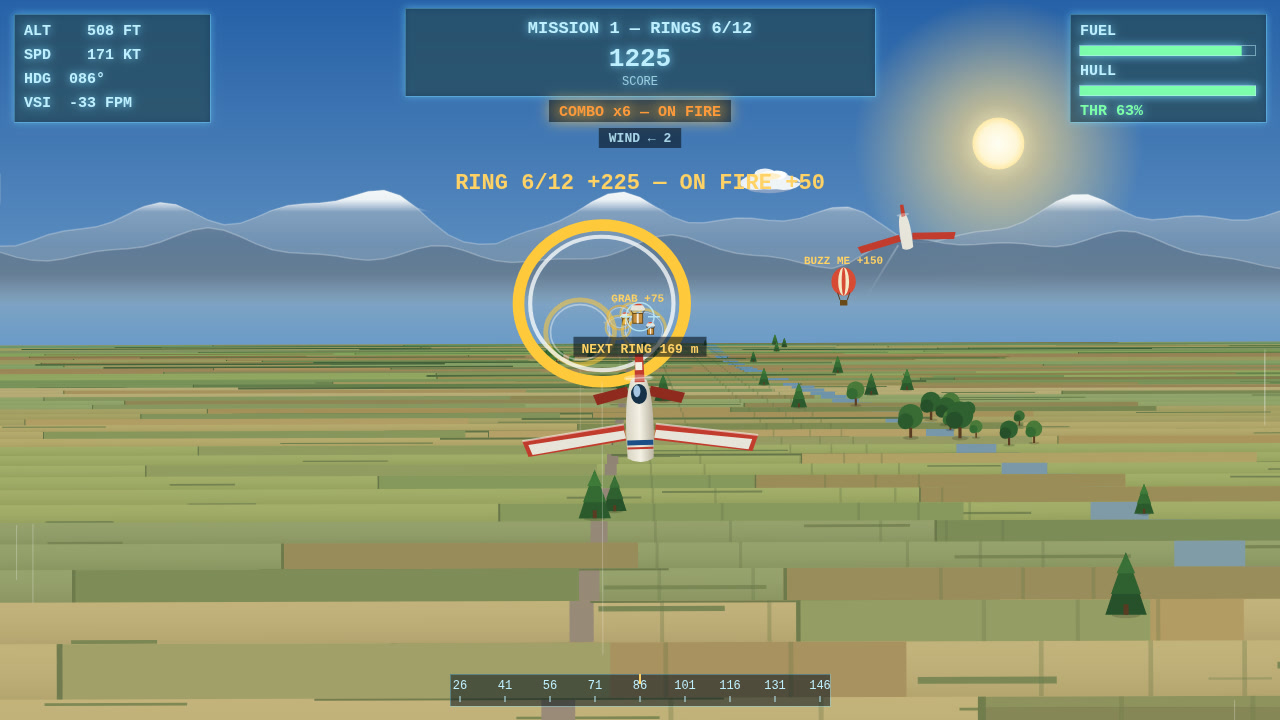
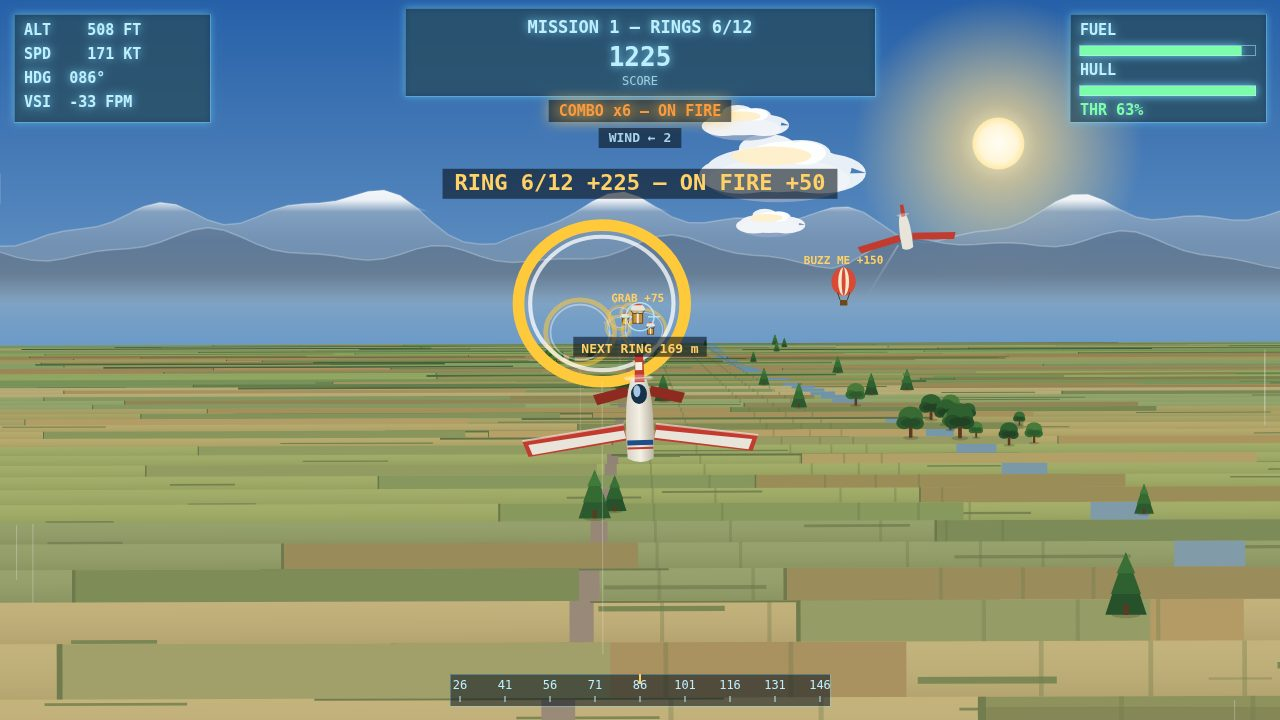
Sky Courier round 13: lower clouds fill the day sky, leafier round trees, tapered zone beam, flash-message pill

diff --git a/game/src/render.js b/game/src/render.js
@@ -542,10 +542,16 @@ export function createRenderer(canvas) {
       ctx.fillText(label3, w / 2, h * 0.44 + 26);
       ctx.textAlign = 'left';
     }
-    // Flash message.
+    // Flash message: the big feedback line ("RING 6/12 +225", "TOUCHDOWN!
+    // +1100 ...") — on its own dark pill now, because the lower clouds
+    // sit right where it is drawn and yellow on white cloud reads faint
+    // (round 13's play shot: "ON FIRE +50" washed out against a cloud).
     if (state.messageT > 0 && state.message) {
       ctx.textAlign = 'center';
       ctx.font = 'bold 22px ui-monospace, Menlo, monospace';
+      const mtw = ctx.measureText(state.message).width;
+      ctx.fillStyle = 'rgba(8,18,30,0.6)';
+      ctx.fillRect(w / 2 - mtw / 2 - 12, h * 0.24 - 4, mtw + 24, 30);
       ctx.fillStyle = '#ffd166';
       ctx.fillText(state.message, w / 2, h * 0.24);
       ctx.textAlign = 'left';
@@ -1036,12 +1042,21 @@ export function createRenderer(canvas) {
           const beamTop = Math.max(horizonY - 180, horizonY + (camDepth * (camAlt - (world.groundAt(zn.z) + 150))) / d);
           // Wider and brighter: at 200+ m the old 16 px beam was a faint
           // thread, and the drop shot's target read as a small smudge.
+          // The beam tapers toward the top: the old constant-width rect
+          // read as a solid yellow pillar in the drop shot, not a shaft
+          // of light.
           const bw = Math.min(26, Math.max(3, rx * 0.28));
           const bg2 = ctx.createLinearGradient(0, gy, 0, beamTop);
           bg2.addColorStop(0, `rgba(255,190,60,${0.55 + 0.2 * Math.sin(state.time * 4)})`);
           bg2.addColorStop(1, 'rgba(255,190,60,0)');
           ctx.fillStyle = bg2;
-          ctx.fillRect(sx - bw / 2, beamTop, bw, gy - beamTop);
+          ctx.beginPath();
+          ctx.moveTo(sx - bw / 2, gy);
+          ctx.lineTo(sx + bw / 2, gy);
+          ctx.lineTo(sx + bw * 0.22, beamTop);
+          ctx.lineTo(sx - bw * 0.22, beamTop);
+          ctx.closePath();
+          ctx.fill();
         }
         ctx.fillStyle = zn.hit ? 'rgba(80,255,140,0.5)' : `rgba(255,190,60,${0.45 + 0.2 * Math.sin(state.time * 4)})`;
         ctx.beginPath();
@@ -1081,18 +1096,30 @@ export function createRenderer(canvas) {
           : [['#2c5a2e', '#356b33', '#3f7a3a'], ['#27512b', '#2f6030', '#3a7038']];
         const g = greens[Math.floor(hash(Math.floor(t.z) * 7 + Math.floor(t.x)) * greens.length)];
         if (t.round) {
-          // Round-canopy tree: two overlapping crowns over a trunk, so it
-          // reads as a volume from any distance.
+          // Round-canopy tree: a squashed main crown plus two offset
+          // side crowns over a thicker trunk, so it reads as a leafy
+          // volume instead of a green lollipop on a stick — the old
+          // perfect circle plus thin trunk read as a balloon in the
+          // drop shot's foreground, and the second crown sat mostly
+          // hidden behind the main disc. A darker shade under the
+          // crown gives it a lit top and a shadowed base.
           ctx.fillStyle = g[0];
           ctx.beginPath();
-          ctx.arc(sx, gy - s * 1.5, s * 0.85, 0, Math.PI * 2);
+          ctx.ellipse(sx, gy - s * 1.45, s * 0.85, s * 0.72, 0, 0, Math.PI * 2);
           ctx.fill();
           ctx.fillStyle = g[1];
           ctx.beginPath();
-          ctx.arc(sx - s * 0.35, gy - s * 1.15, s * 0.55, 0, Math.PI * 2);
+          ctx.ellipse(sx - s * 0.45, gy - s * 1.05, s * 0.55, s * 0.45, 0, 0, Math.PI * 2);
+          ctx.fill();
+          ctx.beginPath();
+          ctx.ellipse(sx + s * 0.42, gy - s * 1.0, s * 0.5, s * 0.42, 0, 0, Math.PI * 2);
+          ctx.fill();
+          ctx.fillStyle = 'rgba(0,0,0,0.14)';
+          ctx.beginPath();
+          ctx.ellipse(sx, gy - s * 1.05, s * 0.7, s * 0.3, 0, 0, Math.PI * 2);
           ctx.fill();
           ctx.fillStyle = '#5a3a22';
-          ctx.fillRect(sx - s * 0.1, gy - s * 0.7, s * 0.2, s * 0.7);
+          ctx.fillRect(sx - s * 0.12, gy - s * 0.75, s * 0.24, s * 0.75);
         } else {
           // Layered conifer: three stacked tiers, lightest at the top,
           // so a big near pine reads as a pine instead of a flat triangle.

diff --git a/game/src/world.js b/game/src/world.js
@@ -131,9 +131,16 @@ export function createWorld(rand) {
       trees.push({ z: cz + (rand() * 2 - 1) * 60, x: cx + (rand() * 2 - 1) * 55, s: 0.7 + rand() * 1.0, round: true });
     }
   }
+  // Clouds sit lower now (190–330 m, was 300–460): the old high clouds
+  // projected above the frame or into the top strip the renderer skips
+  // to keep the mission banner readable, so the day sky read as empty
+  // blue with one or two small puffs near the sun. Lower clouds sit in
+  // the visible band at readable distance. The count stays 26: adding
+  // clouds would shift the seeded stream for the river, balloon, birds,
+  // gusts and drop wind that follow it, and this is a visual change.
   const clouds = [];
   for (let i = 0; i < 26; i += 1) {
-    clouds.push({ z: rand() * TRACK_LENGTH, x: (rand() * 2 - 1) * 500, y: 300 + rand() * 160, s: 1.1 + rand() * 2.0 });
+    clouds.push({ z: rand() * TRACK_LENGTH, x: (rand() * 2 - 1) * 500, y: 190 + rand() * 140, s: 1.3 + rand() * 2.2 });
   }
   // A winding river crosses the farmland (deterministic path from the
   // seeded phases, so the same seed always draws the same river).
